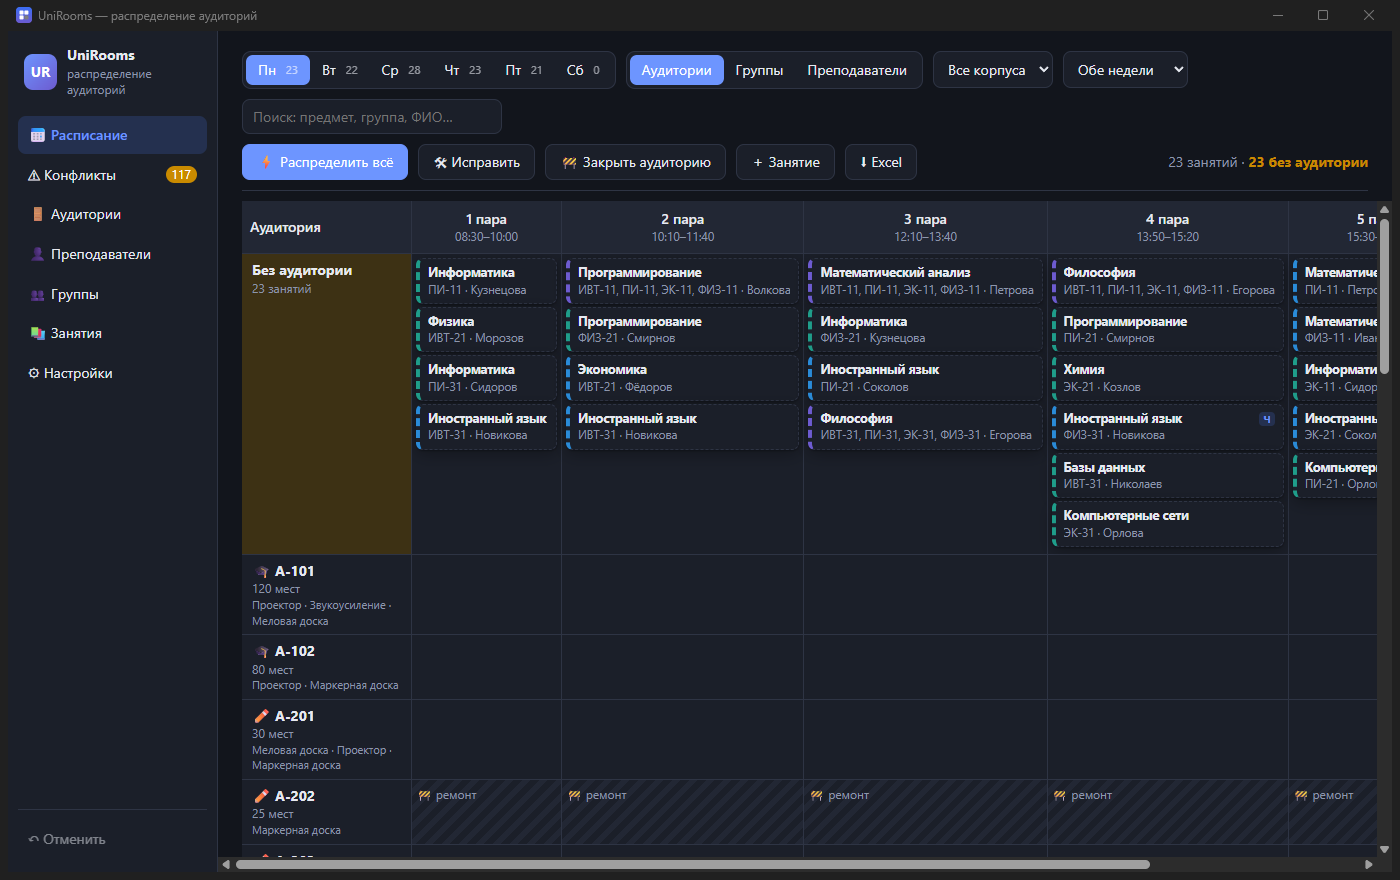
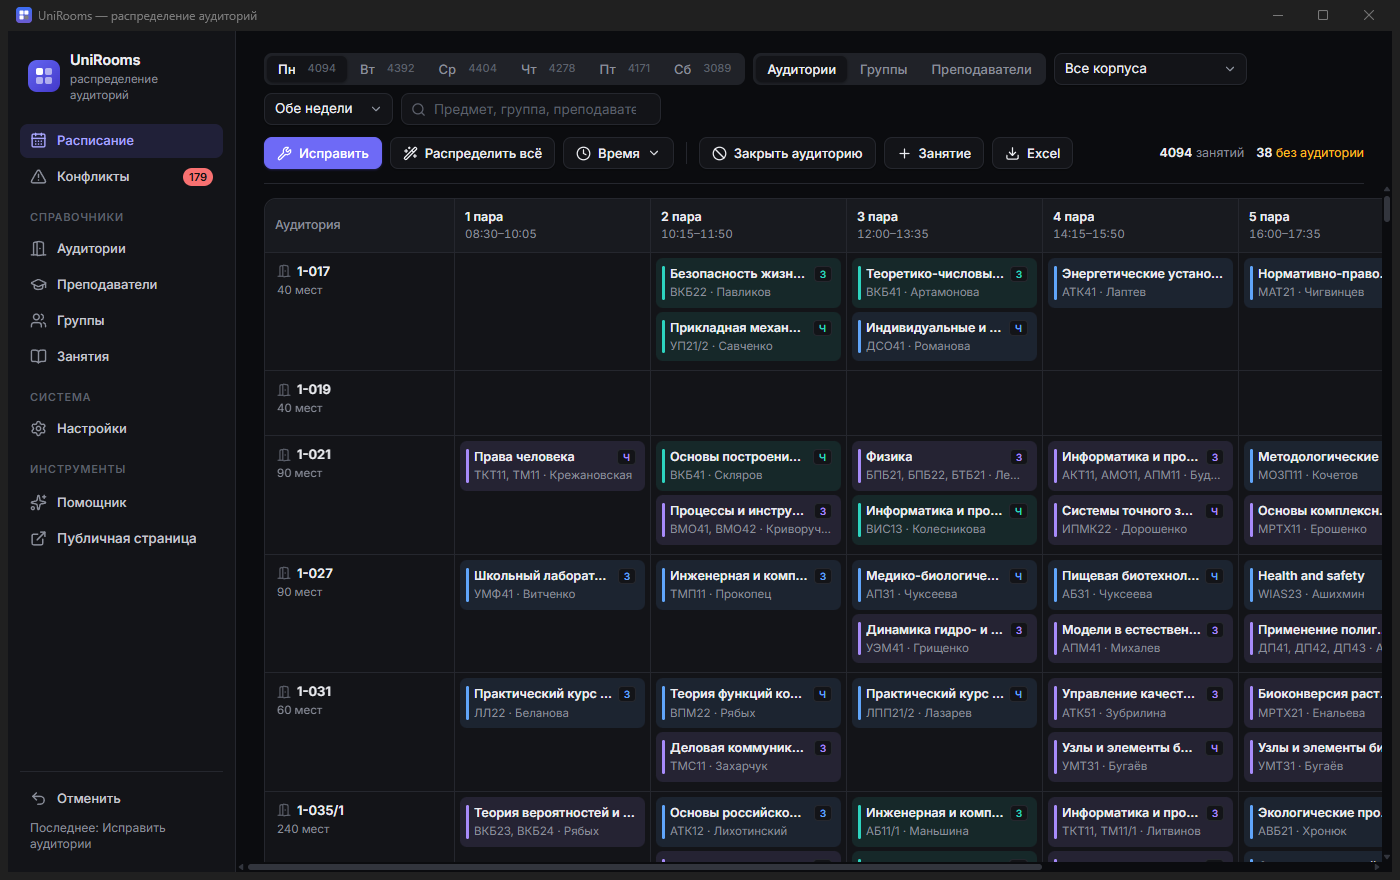
Дизайн: фиксированная ширина колонок сетки, новый скриншот

diff --git a/frontend/src/styles.css b/frontend/src/styles.css
@@ -284,6 +284,7 @@ main { flex: 1; min-width: 0; overflow: auto; }
 .grid-wrap { flex: 1; overflow: auto; margin: 0 -28px; padding: 14px 28px 28px; }
 .grid {
   border-collapse: separate; border-spacing: 0; min-width: 100%;
+  table-layout: fixed;
   background: var(--surface); border: 1px solid var(--border); border-radius: var(--r-lg);
 }
 .grid th, .grid td { border-right: 1px solid var(--border); border-bottom: 1px solid var(--border); }
@@ -291,15 +292,15 @@ main { flex: 1; min-width: 0; overflow: auto; }
 .grid tbody tr:last-child > * { border-bottom: none; }
 .grid thead th {
   position: sticky; top: -14px; z-index: 2; background: var(--surface-2);
-  padding: 9px 10px; font-weight: 600; font-size: 12.5px; min-width: 172px; text-align: left;
+  padding: 9px 10px; font-weight: 600; font-size: 12.5px; width: 196px; text-align: left;
 }
 .grid thead th:first-child { border-top-left-radius: var(--r-lg); }
 .grid thead th:last-child { border-top-right-radius: var(--r-lg); }
 .grid thead th small { font-weight: 400; font-size: 11.5px; font-variant-numeric: tabular-nums; }
-.grid .corner { left: 0; z-index: 3; min-width: 184px; color: var(--muted); font-weight: 500; }
+.grid .corner { left: 0; z-index: 3; width: 190px; color: var(--muted); font-weight: 500; }
 .rowhead {
   position: sticky; left: 0; z-index: 1; background: var(--surface);
-  text-align: left; padding: 9px 12px; font-weight: 400; width: 184px; max-width: 220px; vertical-align: top;
+  text-align: left; padding: 9px 12px; font-weight: 400; vertical-align: top; overflow: hidden;
 }
 .rowhead b { display: flex; align-items: center; gap: 6px; font-weight: 600; font-size: 13px; }
 .rowhead b svg { color: var(--faint); }
@@ -307,7 +308,7 @@ main { flex: 1; min-width: 0; overflow: auto; }
 .rowhead .tags { font-size: 11px; white-space: normal; color: var(--faint); }
 .unassigned-row .rowhead { background: var(--warn-soft); }
 .unassigned-row .rowhead b, .unassigned-row .rowhead b svg { color: var(--warn); }
-.cell { background: var(--surface); padding: 5px; vertical-align: top; min-width: 172px; height: 58px; transition: background 0.1s; }
+.cell { background: var(--surface); padding: 5px; vertical-align: top; height: 58px; overflow: hidden; transition: background 0.1s; }
 .cell.blocked {
   background: repeating-linear-gradient(135deg, transparent, transparent 7px, var(--surface-2) 7px, var(--surface-2) 14px);
 }

diff --git a/frontend/src/pages/Schedule.tsx b/frontend/src/pages/Schedule.tsx
@@ -327,7 +327,7 @@ export function SchedulePage() {
       )}
 
       <div className="grid-wrap">
-        <table className="grid">
+        <table className="grid" style={{ width: 190 + pairs.length * 196 }}>
           <thead>
             <tr>
               <th className="corner">{{ rooms: 'Аудитория', groups: 'Группа', teachers: 'Преподаватель' }[view]}</th>
